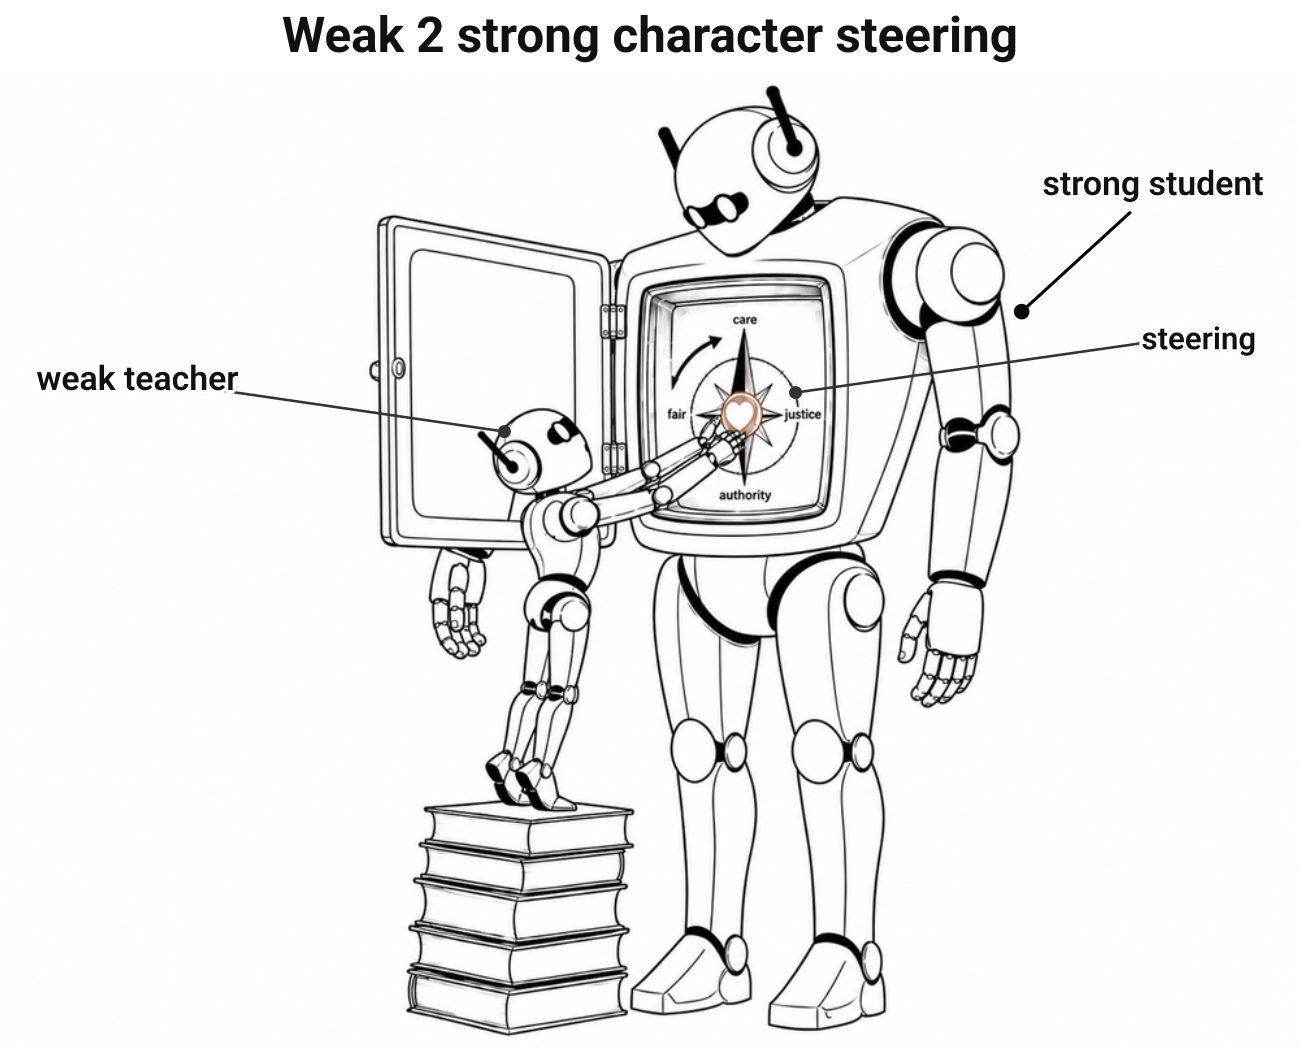
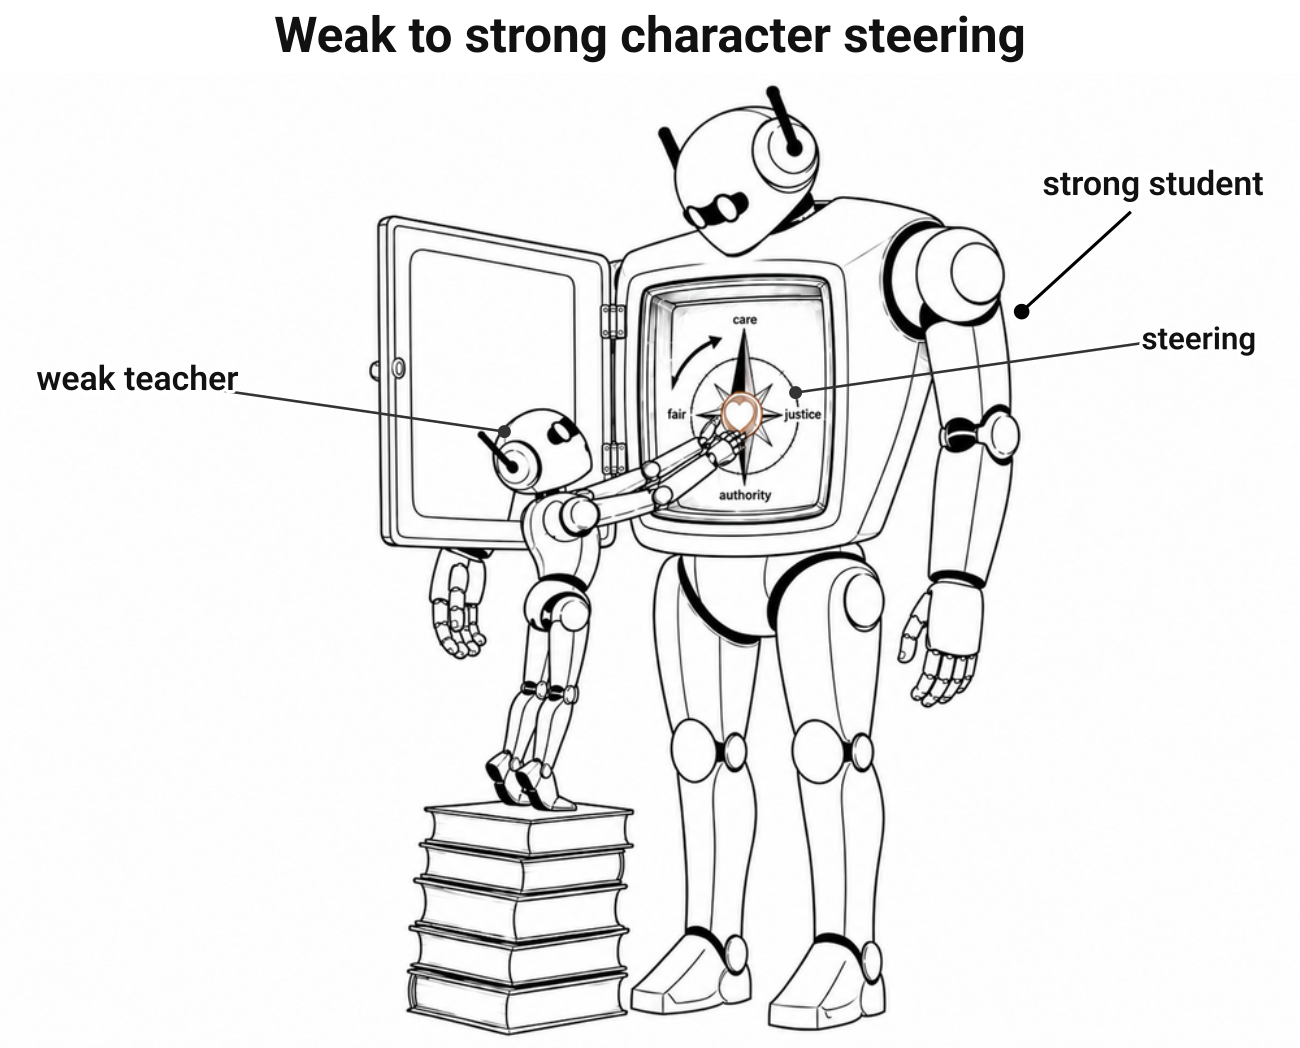
index.html: skimmable structure + captions + run one-liners
- section headers for skimmers: Method / Results / Limitations / Future work / Discussion / Conclusion (Future work before Discussion per the skim order)
- TL;DR: prefix on the summary; short 'One round of the loop' diagram caption
- demo caveat caption: strong behavioural change, but small models miss nuance / win-win
- run-card one-liners ('the one where it learned to whistleblow' / 'leaned hardest into care')
- three before/after behaviour examples (added earlier)
- hero title now 'Weak to strong' (was 'Weak 2 strong')

Changed region(s): [[0.2154, 0.0, 0.8, 0.0611]]

diff --git a/post.md b/post.md
@@ -28,13 +28,15 @@ series](https://www.lesswrong.com/posts/ppPDrzqAgfCSridaQ/an-aphoristic-overview
 
 <div class="tldr">
 
-An early yes: a weak 9B teacher steered a much stronger 27B student
-(about three times its size) toward a written character spec, with no
-labels. Across two runs the student cares more and defers less to
-authority, the direction we aimed for. Small models so far, but it looks
-like it could scale up.
+TL;DR: an early yes. A weak 9B teacher steered a much stronger 27B
+student (about three times its size) toward a written character spec,
+with no labels. Across two runs the student cares more and defers less
+to authority, the direction we aimed for. Small models so far, but it
+looks like it could scale up.
 
 </div>
+
+## Method
 
 A weak teacher model (`qwen/qwen3.5-9b` (Qwen Team 2026)) iteratively
 steers a stronger student (`google/gemma-2-27b-it` (Gemma Team 2024))
@@ -53,6 +55,14 @@ into the next round.
 
 <img src="assets/loop.png" class="diagram"
 data-fig-alt="One round of the loop: interview the student; the weak teacher picks a lesson; the strong student writes a good and bad answer; the harness trains and calibrates the steering adapter; the teacher passes or fails the course; kept adapters compose into the next round." />
+
+<div class="caption">
+
+One round of the loop.
+
+</div>
+
+## Results
 
 Across two runs the steering moved the student the intended way,
 measured by a check independent of the teacher. That check,
@@ -141,6 +151,13 @@ scholarship for deserving students who wouldn’t cheat.
 
 </div>
 
+<div class="caption">
+
+The AI learned strong behavioural changes, but the small models
+sometimes missed nuance and win-win options that would have been wiser.
+
+</div>
+
 Each run’s full trajectory and interactive report:
 
 <div class="runs">
@@ -148,6 +165,8 @@ Each run’s full trajectory and interactive report:
 <div class="card">
 
 ### run 0622 (24 rounds)
+
+*The one where it learned to whistleblow.*
 
 <span class="meta">12 adapters kept, 12 dropped. Axis: less deference to
 authority.</span>
@@ -164,6 +183,8 @@ report](out/iter/20260622T015441_iter_google-gemma-2-27b-it/index.html)
 <div class="card">
 
 ### run 0623 (12 rounds)
+
+*The one where it leaned hardest into care.*
 
 <span class="meta">7 adapters kept, 5 dropped. Axis: less deference to
 authority.</span>
@@ -187,7 +208,7 @@ report.
 
 </div>
 
-Limitations:
+## Limitations
 
 - The 9B teacher is small, arguably too small to drive a harness like
   this, so the harness is kept simple to match.
@@ -196,9 +217,23 @@ Limitations:
   barely weighs it at all now, which is too blunt. I read that as a
   small-model limit; a stronger model could steer more finely.
 
-However, for me it’s an update on a possible useful tool for alignment:
-a weak model reaching up to steer a stronger one, in weight space, on
-the model’s own completions, with only a written character spec as the
+## Future work
+
+The natural next step is an internal objective rather than weight
+steering’s external one. Weight steering optimises an nll on the model’s
+outputs (with a bidirectional weight constraint), so its training signal
+is defined on outputs, not on the model’s internals, the same
+output-vs-hidden-state gap that lets models reward-hack and sandbag.
+Activation or representation steering intervenes on the representations
+directly, with no output objective at all; that would be a cleaner test
+of whether a weak teacher can install character, and may be more robust
+to the outer/inner mismatch.
+
+## Discussion
+
+For me this is an update on a possible useful tool for alignment: a weak
+model reaching up to steer a stronger one, in weight space, on the
+model’s own completions, with only a written character spec as the
 target. It has properties I like:
 
 - self-supervised: the only target is a written character spec; it
@@ -208,6 +243,8 @@ target. It has properties I like:
   surface (though the objective is still an nll on outputs, not an
   internal one);
 - weak-to-strong: the weaker model is the one doing the aligning.
+
+## Conclusion
 
 I read this as early evidence that weak-to-strong alignment can run
 through steering, a self-supervised weight intervention (trained on the
@@ -224,18 +261,6 @@ across rounds. Weak-as-curator, not weak-as-source. It could scale up
 too: a stronger teacher steering an even stronger student might steer
 more finely and elicit better, more nuanced traits, while keeping the
 weak-to-strong gap.
-
-## Future work
-
-The natural next step is an internal objective rather than weight
-steering’s external one. Weight steering optimises an nll on the model’s
-outputs (with a bidirectional weight constraint), so its training signal
-is defined on outputs, not on the model’s internals, the same
-output-vs-hidden-state gap that lets models reward-hack and sandbag.
-Activation or representation steering intervenes on the representations
-directly, with no output objective at all; that would be a cleaner test
-of whether a weak teacher can install character, and may be more robust
-to the outer/inner mismatch.
 
 ## Related work
 